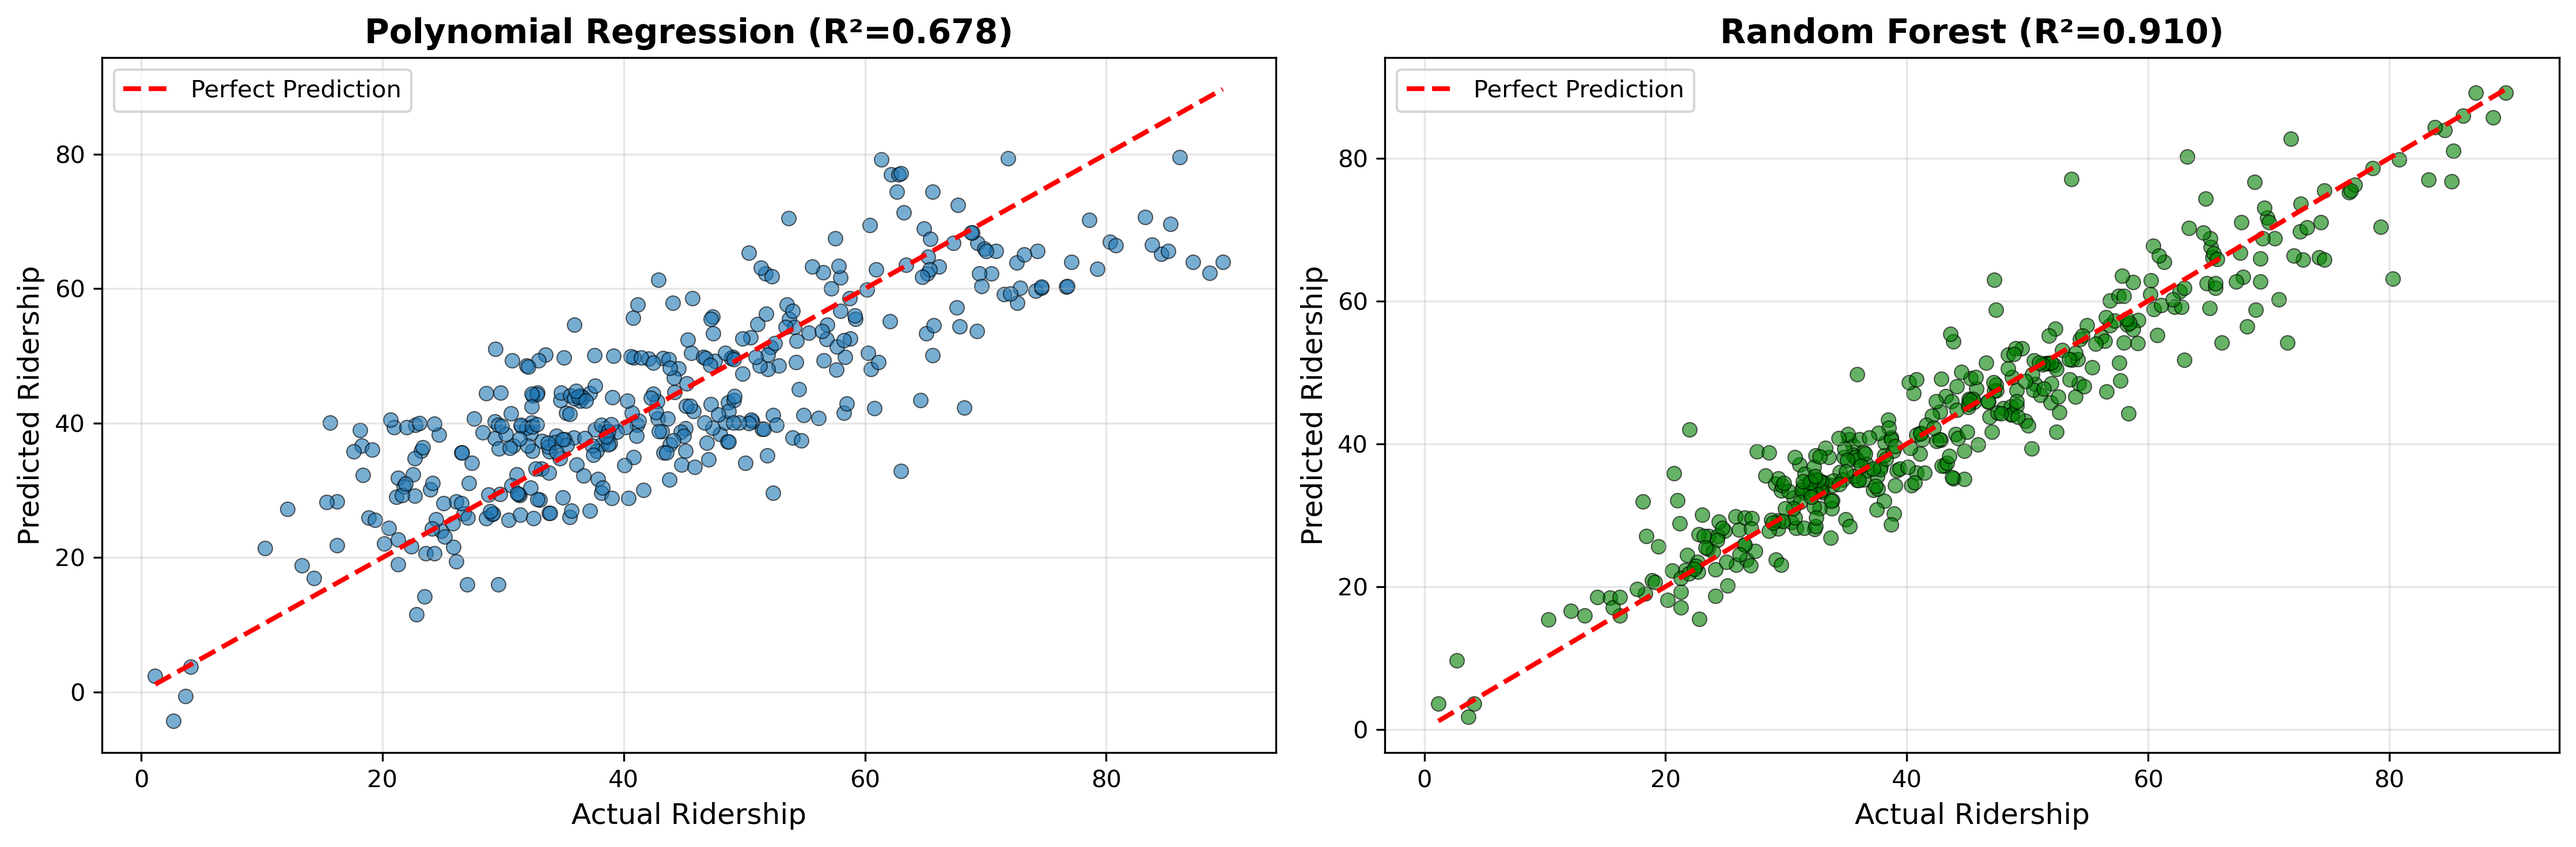
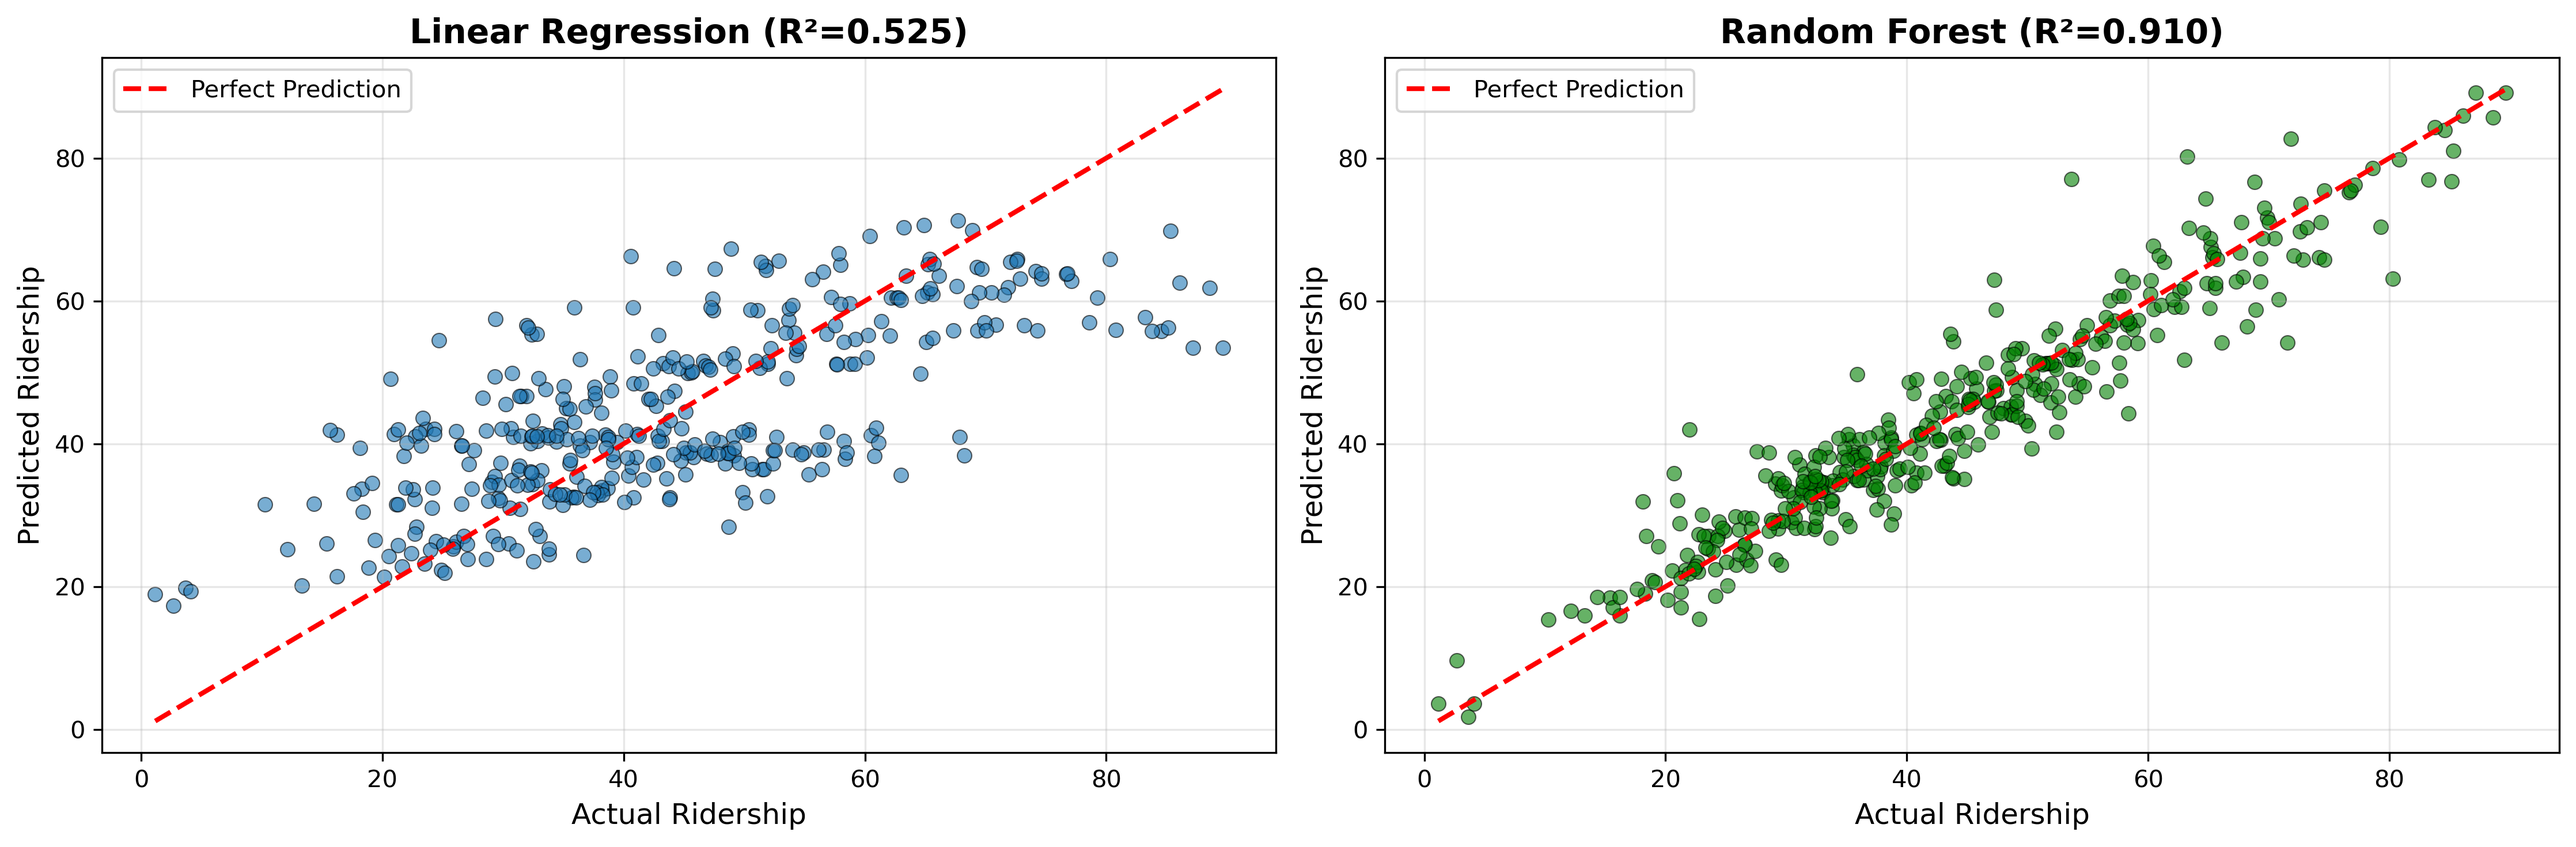
Updated model comparison to use linear regression, added more comments, included optimal model parameter heatmap

diff --git a/data files/build_model_v1.1.py b/data files/build_model_v1.1.py
@@ -1,6 +1,6 @@
 """
 Machine Learning Models for Bus Ridership Prediction
-Polynomial Regressor - baseline model to fit non-linear data.
+Linear Regressor - baseline model to fit data for comparison.
 RandomForest Regressor - advanced model to capture complex patterns and make predictions.
 """
 
@@ -9,7 +9,7 @@ import numpy as np
 import matplotlib.pyplot as plt
 import seaborn as sns
 from sklearn.model_selection import train_test_split, GridSearchCV, cross_val_score
-from sklearn.preprocessing import PolynomialFeatures, StandardScaler
+from sklearn.preprocessing import StandardScaler
 from sklearn.linear_model import LinearRegression
 from sklearn.ensemble import RandomForestRegressor
 from sklearn.metrics import mean_squared_error, mean_absolute_error, r2_score, mean_absolute_percentage_error, r2_score
@@ -62,44 +62,39 @@ y = df[target_feature]
 X_train, X_test, y_train, y_test = train_test_split(X, y, test_size=0.2, random_state=42)
 
 # ============================================================================
-# 4. TRAIN BASELINE MODEL - POLYNOMIAL REGRESSION
+# 4. TRAIN BASELINE MODEL - LINEAR REGRESSION
 # ============================================================================
 
-print("\nTraining baseline model - Polynomial Regression...")
+print("\nTraining baseline model - Linear Regression...")
 
 # Scale features
 scaler = StandardScaler()
 X_train_scaled = scaler.fit_transform(X_train)
 X_test_scaled = scaler.transform(X_test)
 
-# Polynomial features
-poly = PolynomialFeatures(degree=2, include_bias=False)
-X_train_poly = poly.fit_transform(X_train_scaled)
-X_test_poly = poly.transform(X_test_scaled)
-
 # Train model
-poly_model = LinearRegression()
-poly_model.fit(X_train_poly, y_train)
+linear_model = LinearRegression()
+linear_model.fit(X_train_scaled, y_train)
 
 # Predictions
-y_train_pred_poly = poly_model.predict(X_train_poly)
-y_test_pred_poly = poly_model.predict(X_test_poly)
+y_train_pred_linear = linear_model.predict(X_train_scaled)
+y_test_pred_linear = linear_model.predict(X_test_scaled)
 
 # Calculate metrics
-poly_train_rmse = np.sqrt(mean_squared_error(y_train, y_train_pred_poly))
-poly_train_mae = mean_absolute_error(y_train, y_train_pred_poly)
-poly_train_r2 = r2_score(y_train, y_train_pred_poly)
-poly_train_mape = mean_absolute_percentage_error(y_train, y_train_pred_poly) * 100
+linear_train_rmse = np.sqrt(mean_squared_error(y_train, y_train_pred_linear))
+linear_train_mae = mean_absolute_error(y_train, y_train_pred_linear)
+linear_train_r2 = r2_score(y_train, y_train_pred_linear)
+linear_train_mape = mean_absolute_percentage_error(y_train, y_train_pred_linear) * 100
 
-poly_test_rmse = np.sqrt(mean_squared_error(y_test, y_test_pred_poly))
-poly_test_mae = mean_absolute_error(y_test, y_test_pred_poly)
-poly_test_r2 = r2_score(y_test, y_test_pred_poly)
-poly_test_mape = mean_absolute_percentage_error(y_test, y_test_pred_poly) * 100
+linear_test_rmse = np.sqrt(mean_squared_error(y_test, y_test_pred_linear))
+linear_test_mae = mean_absolute_error(y_test, y_test_pred_linear)
+linear_test_r2 = r2_score(y_test, y_test_pred_linear)
+linear_test_mape = mean_absolute_percentage_error(y_test, y_test_pred_linear) * 100
 
 # Cross-validation
-poly_cv_scores = cross_val_score(poly_model, X_train_poly, y_train, 
-                                 cv=5, scoring='r2', n_jobs=-1)
-print(f"\n5-Fold CV R² Score: {poly_cv_scores.mean():.4f} (+/- {poly_cv_scores.std():.4f})")
+linear_cv_scores = cross_val_score(linear_model, X_train_scaled, y_train, 
+                                   cv=5, scoring='r2', n_jobs=-1)
+print(f"\n5-Fold CV R² Score: {linear_cv_scores.mean():.4f} (+/- {linear_cv_scores.std():.4f})")
 
 print("\nFinished training.")
 
@@ -166,18 +161,16 @@ print("\nFinished training.")
 
 print("\nSAVING MODELS")
 
-# Save Polynomial Regression (baseline model)
-poly_package = {
-    'model': poly_model,
+# Save Linear Regression (baseline model)
+linear_package = {
+    'model': linear_model,
     'scaler': scaler,
-    'poly': poly,
-    'degree': 2,
     'feature_names': priority_features
 }
 
-# Save Polynomial Regression
-joblib.dump(poly_package, 'models/polynomial_regression_model.pkl')
-print("Saved: models/polynomial_regression_model.pkl")
+# Save Linear Regression
+joblib.dump(linear_package, 'models/linear_regression_model.pkl')
+print("Saved: models/linear_regression_model.pkl")
 
 # Save Random Forest (advanced model)
 rf_package = {
@@ -196,11 +189,11 @@ print("\nMODEL COMPARISON")
 
 comparison_df = pd.DataFrame({
     'Metric': ['RMSE', 'MAE', 'R²', 'MAPE (%)'],
-    'Polynomial Regression': [
-        poly_test_rmse,
-        poly_test_mae,
-        poly_test_r2,
-        poly_test_mape
+    'Linear Regression': [
+        linear_test_rmse,
+        linear_test_mae,
+        linear_test_r2,
+        linear_test_mape
     ],
     'Random Forest': [
         rf_test_rmse,
@@ -212,22 +205,22 @@ comparison_df = pd.DataFrame({
 
 # Calculate improvement
 comparison_df['Improvement'] = [
-    f"{((poly_test_rmse - rf_test_rmse) / poly_test_rmse * 100):.1f}%",
-    f"{((poly_test_mae - rf_test_mae) / poly_test_mae * 100):.1f}%",
-    f"{((rf_test_r2 - poly_test_r2) / poly_test_r2 * 100):.1f}%",
-    f"{((poly_test_mape - rf_test_mape) / poly_test_mape * 100):.1f}%"
+    f"{((linear_test_rmse - rf_test_rmse) / linear_test_rmse * 100):.1f}%",
+    f"{((linear_test_mae - rf_test_mae) / linear_test_mae * 100):.1f}%",
+    f"{((rf_test_r2 - linear_test_r2) / linear_test_r2 * 100):.1f}%",
+    f"{((linear_test_mape - rf_test_mape) / linear_test_mape * 100):.1f}%"
 ]
 
 print("\n" + comparison_df.to_string(index=False))
 
 # Determine winner
 print("\n" + "-" * 70)
-if rf_test_r2 > poly_test_r2:
+if rf_test_r2 > linear_test_r2:
     print("Winner: Random Forest Regression")
     print(f"Random Forest has {comparison_df.iloc[2, 3]} better R² score")
 else:
-    print("Winner: Polynomial Regression")
-    print(f"Polynomial Regression has better R² score")
+    print("Winner: Linear Regression")
+    print(f"Linear Regression has better R² score")
 print("-" * 70)
 
 # ============================================================================
@@ -238,21 +231,20 @@ print("\n" + "=" * 70)
 print("GENERATING VISUALIZATIONS")
 print("=" * 70)
 
-
 #
 # Plot: Predictions comparison
 #
 
 fig, axes = plt.subplots(1, 2, figsize=(15, 5))
 
-# Polynomial Regression
-axes[0].scatter(y_test, y_test_pred_poly, alpha=0.6, edgecolors='k', linewidth=0.5)
+# Linear Regression
+axes[0].scatter(y_test, y_test_pred_linear, alpha=0.6, edgecolors='k', linewidth=0.5)
 axes[0].plot([y_test.min(), y_test.max()], 
              [y_test.min(), y_test.max()], 
              'r--', lw=2, label='Perfect Prediction')
 axes[0].set_xlabel('Actual Ridership', fontsize=12)
 axes[0].set_ylabel('Predicted Ridership', fontsize=12)
-axes[0].set_title(f'Polynomial Regression (R²={poly_test_r2:.3f})', 
+axes[0].set_title(f'Linear Regression (R²={linear_test_r2:.3f})', 
                   fontsize=14, fontweight='bold')
 axes[0].legend()
 axes[0].grid(True, alpha=0.3)
@@ -275,13 +267,14 @@ plt.savefig('model_predictions_comparison.png', dpi=300, bbox_inches='tight')
 print("Saved: model_predictions_comparison.png")
 plt.close()
 
-
 #
 # Plot: Feature Importance for Random Forest Regression model
 #
+# This bar chart visualizes the importance of each feature used in the Random Forest model.
+# Feature importance indicates how much each feature contributes to reducing prediction error.
 
-importances = rf_model.feature_importances_     # Each importance value represents how much that feature contributes
-feature_names = priority_features               # to reducing prediction error across all trees in the Random Forest.
+importances = rf_model.feature_importances_     
+feature_names = priority_features               
 
 feat_imp_df = pd.DataFrame({
     'Feature': feature_names,
@@ -299,8 +292,12 @@ print("Saved: random_forest_feature_importance.png")
 plt.close()
 
 #
-# Grid Search Hyperparameter Heatmap
+# Plot Grid Search Hyperparameter Heatmap
 #
+# This heatmap visualizes the mean test scores from the grid search
+# across different combinations of 'n_estimators' and 'max_depth'.
+# The color intensity indicates the performance of the model with those hyperparameters.
+# The optimal combination was identified to be n_estimators=300 and max_depth=20.
 
 grid_results = pd.DataFrame(grid_search.cv_results_)
 pivot_table = grid_results.pivot_table(

diff --git a/data files/predict_ridership_v1.1.py b/data files/predict_ridership_v1.1.py
@@ -15,21 +15,21 @@ from pathlib import Path
 import warnings
 warnings.filterwarnings('ignore')
 
-def calculate_features_for_coordinates(lat, lon, n_neighbors=5, max_distance_km=1.0):
+def calculate_features_for_coordinates(lon, lat, n_neighbors=5, max_distance_km=0.5):
     """
     Calculate features for a given coordinate point by analyzing similar nearby bus stops.
     Uses weighted average based on distance to nearby stops.
     
     Parameters:
     -----------
-    lat : float
-        Latitude of the point
     lon : float
         Longitude of the point
+    lat : float
+        Latitude of the point
     n_neighbors : int
         Number of nearby bus stops to consider (default: 5)
     max_distance_km : float
-        Maximum distance in km to consider stops (default: 1.0 km)
+        Maximum distance in km to consider stops (default: 0.5 km)
     
     Returns:
     --------
@@ -52,10 +52,10 @@ def calculate_features_for_coordinates(lat, lon, n_neighbors=5, max_distance_km=
     # print("IN calculate_features_for_coordinates")
 
     # Load bus stops data with features
-    bus_stops_df = pd.read_csv(Path("training_data") / "bus_stops_with_features.csv")
+    bus_stops_df = pd.read_csv(Path("processed_data/bus_stops_with_features.csv"))
     
     # Convert to GeoDataFrame
-    if 'latitude' in bus_stops_df.columns and 'longitude' in bus_stops_df.columns:
+    if 'longitude' in bus_stops_df.columns and 'latitude' in bus_stops_df.columns:
         bus_stops_gdf = gpd.GeoDataFrame(
             bus_stops_df,
             geometry=gpd.points_from_xy(bus_stops_df.longitude, bus_stops_df.latitude),
@@ -118,7 +118,7 @@ def calculate_features_for_coordinates(lat, lon, n_neighbors=5, max_distance_km=
     
     return features
 
-def ridership_prediction(lat, lon, n_neighbors=5, max_distance_km=1.0):
+def ridership_prediction(lon, lat, n_neighbors=5, max_distance_km=0.5):
     """
     Predict ridership for a given coordinate.
     
@@ -133,14 +133,14 @@ def ridership_prediction(lat, lon, n_neighbors=5, max_distance_km=1.0):
     n_neighbors : int
         Number of nearby stops to consider for weighted average
     max_distance_km : float
-        Maximum distance to consider stops for weighted average - use 1.0 km by default due to urban density.
+        Maximum distance to consider stops for weighted average - use 0.5 km by default due to urban density.
     
     Returns:
     --------
     float : Predicted ridership value
     """
     # Load the trained Random Forest Regressor model
-    model_package = joblib.load(Path("models") / "random_forest_model.pkl")
+    model_package = joblib.load(Path("models/random_forest_model.pkl"))
 
     # Extract the model from the package
     if isinstance(model_package, dict):
@@ -154,7 +154,7 @@ def ridership_prediction(lat, lon, n_neighbors=5, max_distance_km=1.0):
         model = model_package
     
     # Calculate features for the coordinates
-    features = calculate_features_for_coordinates(lat, lon, n_neighbors, max_distance_km)
+    features = calculate_features_for_coordinates(lon, lat, n_neighbors, max_distance_km)
     
     # Convert features to DataFrame for prediction
     feature_df = pd.DataFrame([features])
@@ -183,26 +183,26 @@ def ridership_prediction(lat, lon, n_neighbors=5, max_distance_km=1.0):
 # Example usage
 if __name__ == "__main__":
     if len(sys.argv) != 3:
-        print("Usage: python predict_ridership.py <latitude> <longitude>")
-        print("\nExample: python predict_ridership.py 48.4284 -123.3656")
+        print("Usage: python predict_ridership.py <longitude> <latitude> ")
+        print("\nExample: python predict_ridership.py -123.36802170000426 48.42421119999788 ")
         sys.exit(1)
     
     try:
-        lat = float(sys.argv[1])
-        lon = float(sys.argv[2])
+        lon = float(sys.argv[1])
+        lat = float(sys.argv[2])
     except ValueError:
-        print("Error: Latitude and longitude must be numbers")
+        print("Error: Longitude and Latitude must be numbers")
         sys.exit(1)
     
     print("=" * 80)
     print("BUS RIDERSHIP PREDICTION")
     print("=" * 80)
-    print(f"\nLocation: ({lat}, {lon})")
+    print(f"\nLocation: ({lon}, {lat})")
     
     # Make prediction
     print("\nMaking prediction...")
     try:
-        prediction = ridership_prediction(lat, lon)
+        prediction = ridership_prediction(lon, lat)
         print(f"Predicted ridership: {prediction:.2f}")
     except FileNotFoundError:
         print("Model file not found. Please ensure 'random_forest_model.pkl' exists.")
